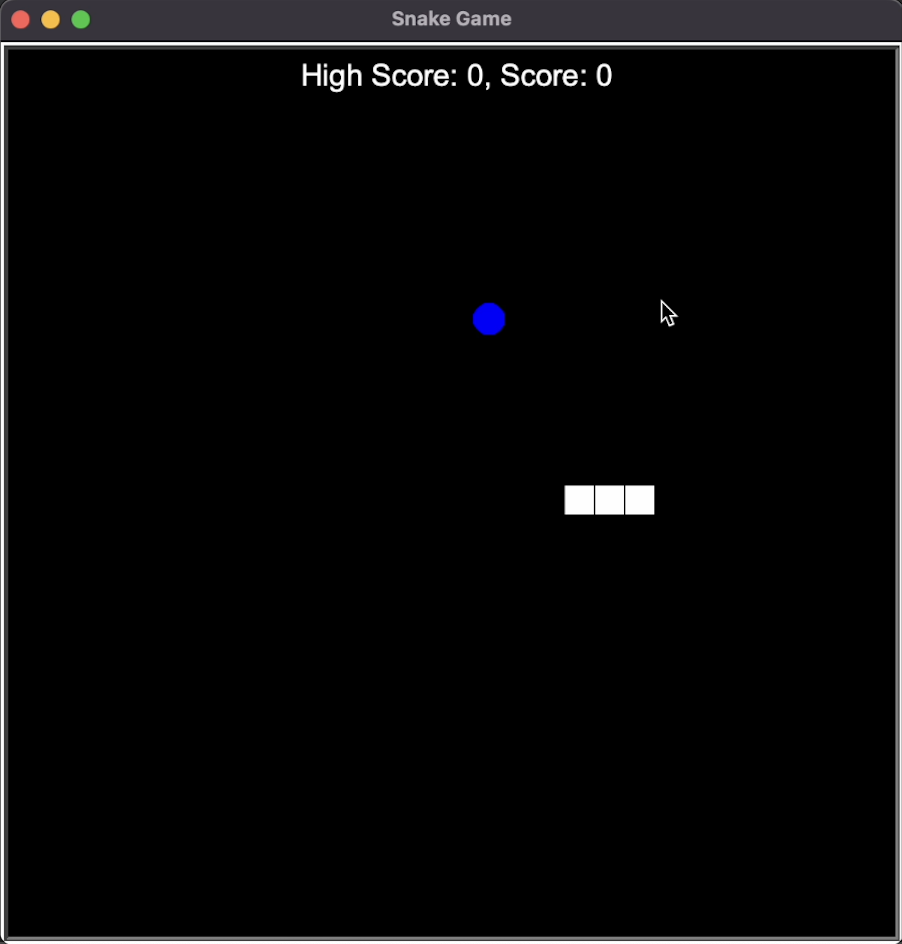
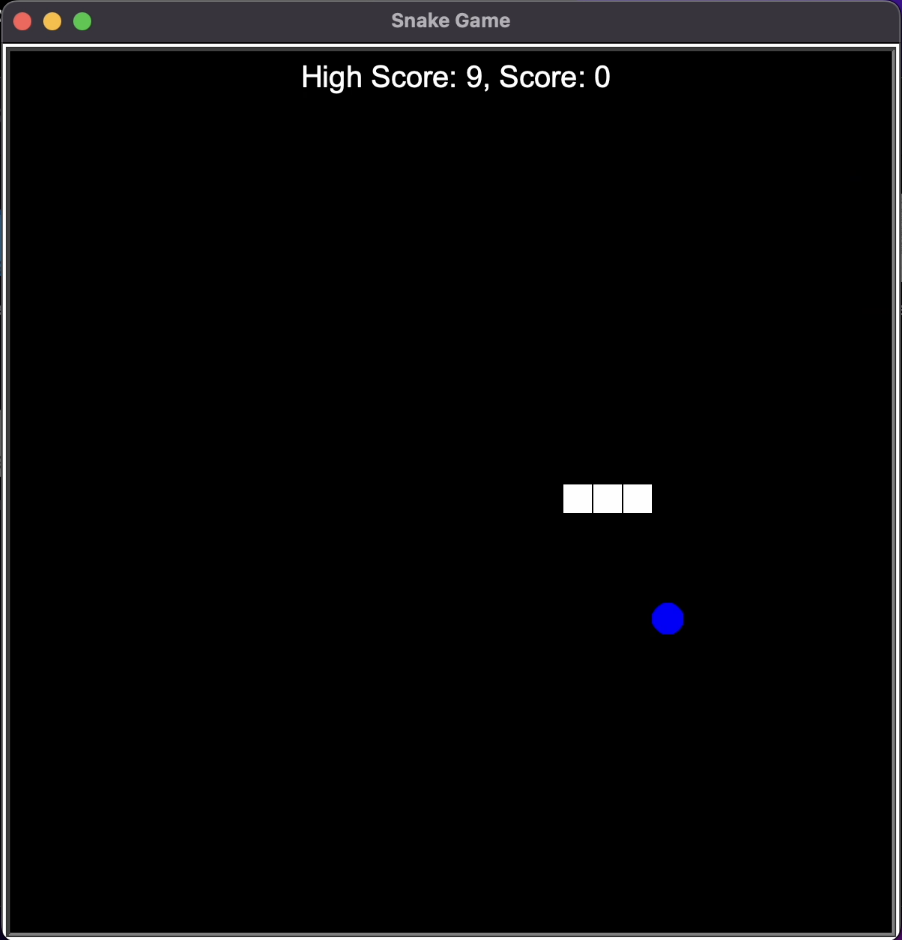
updating README.md

diff --git a/README.md b/README.md
@@ -9,3 +9,8 @@ Run the main.py file, and it will automatically start the snake game.
 The user uses the up, down, left, and right arrow keys to move the snake. The snake is initially 3 block size and gets 
 a block size bigger everytime it eats a blue circle snack.
 If snake touches any of the 4 sides or itself, the snake dies and the game is over.
+
+### Highscore Tracking
+highscore.txt file keeps track of the highest score achieved by the user.
+It updates the highscore in the txt file when the user gets higher score than the
+previous high score.
